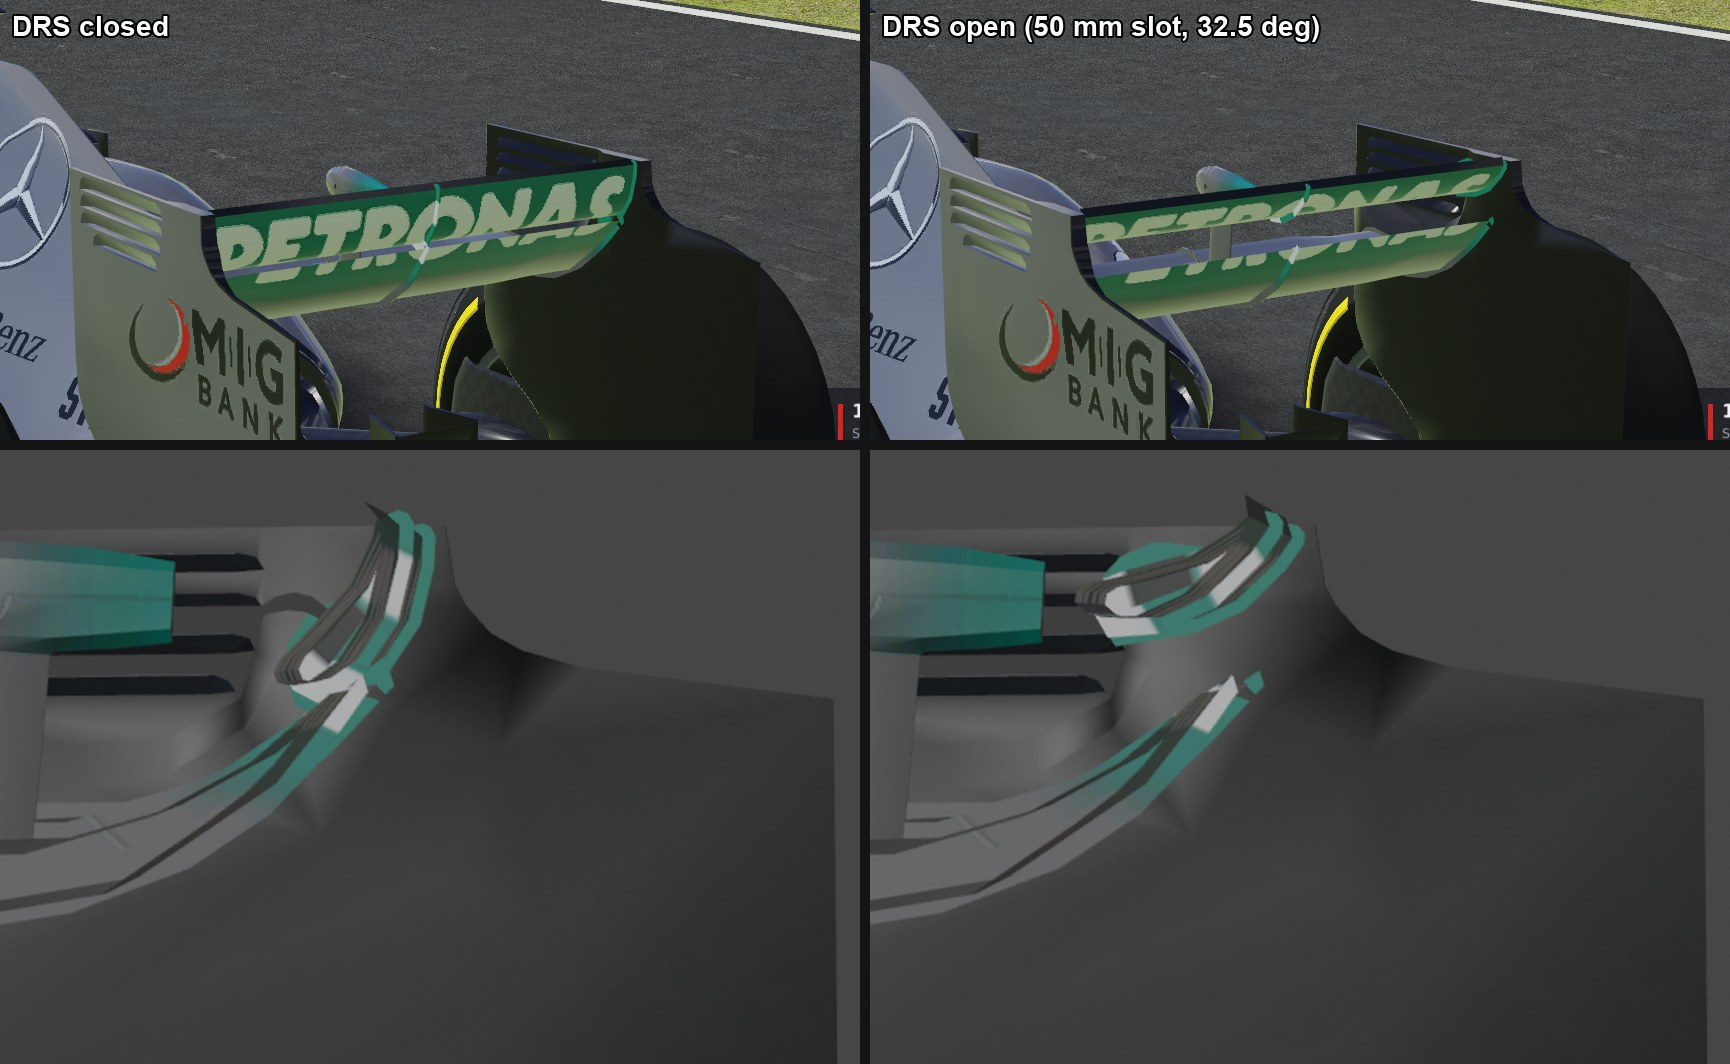
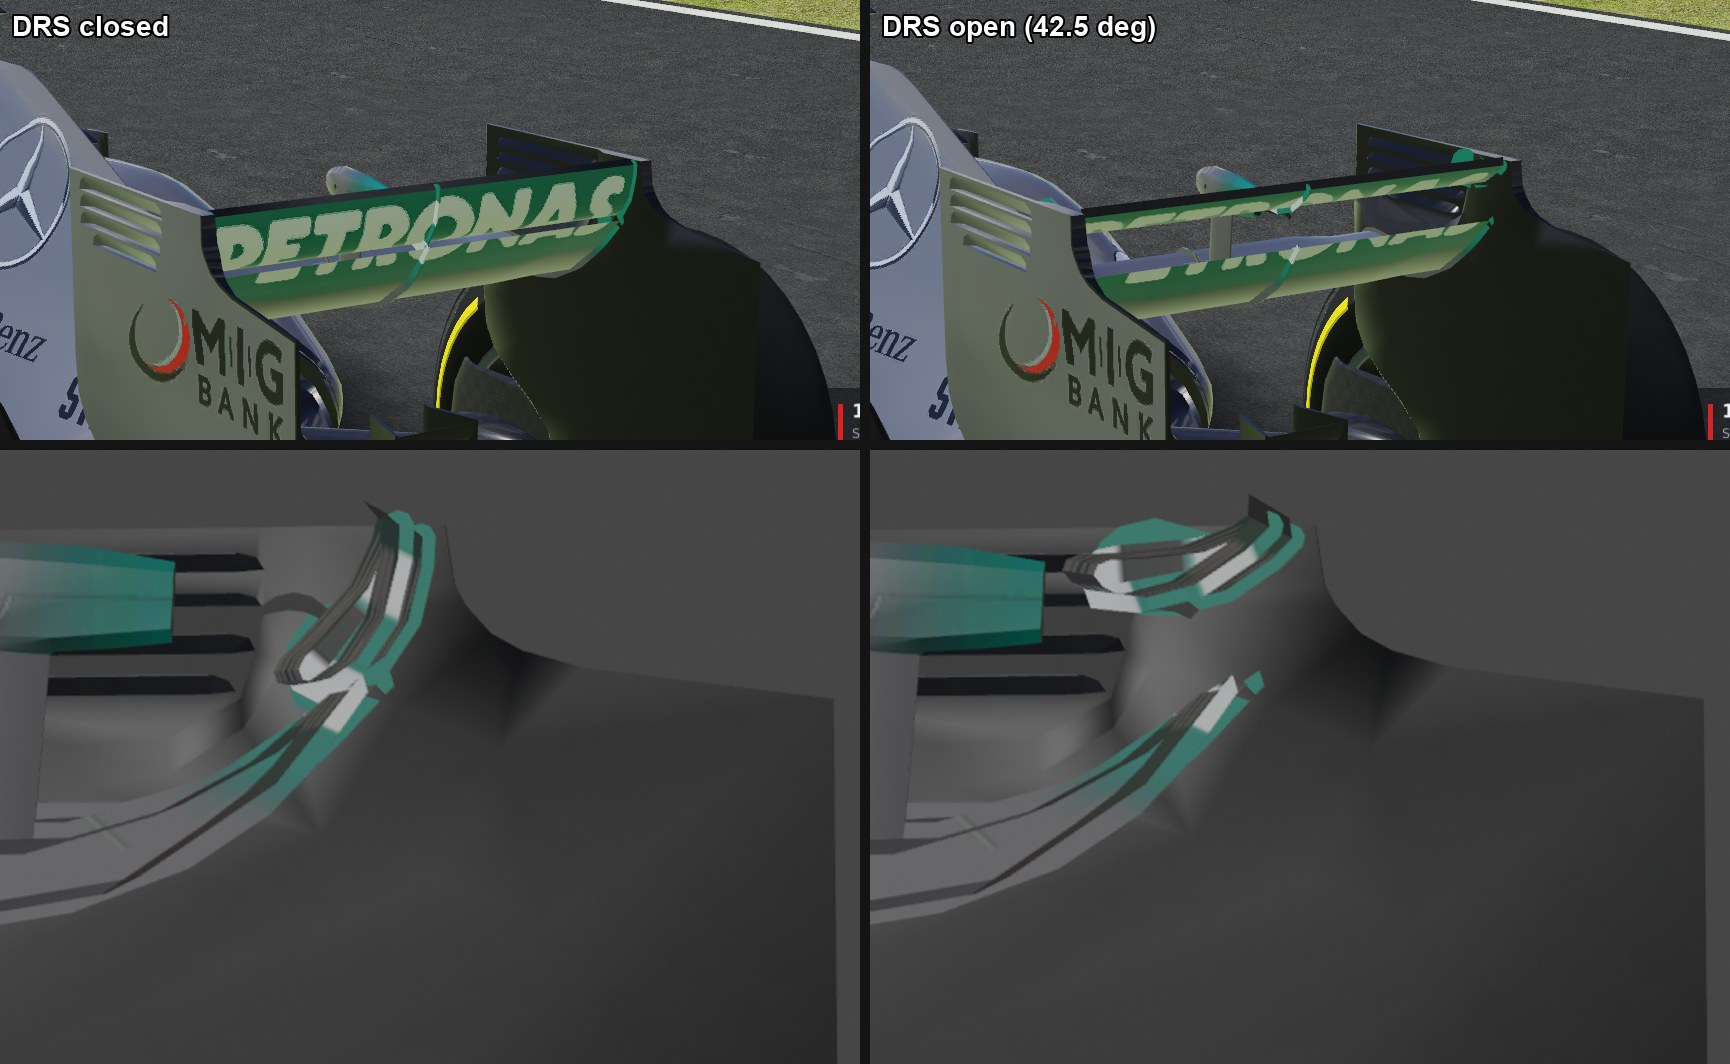
DRS flap opens 10 degrees further
The open flap now turns 10 degrees past the angle that gives the 2013 rules'
50 mm slot: 42.5 degrees on the Mercedes (59.6 mm slot), 36.8 to 49 across
the pack. car.json keeps the rule's angle as rule_angle_deg; the extra is
EXTRA_OPEN_DEG in tools/rig_drs.py.

Changed region(s): [[0.5931, 0.4652, 0.7491, 0.6203], [0.6243, 0.1241, 0.874, 0.2481], [0.5931, 0.0, 0.7803, 0.062]]

diff --git a/tools/rig_drs.py b/tools/rig_drs.py
@@ -7,7 +7,8 @@ For each car folder (assets/cars/<id> in the 2013 pack layout: body.glb, car.jso
   - writes it to drs_flap.glb as one node "drs_flap" whose origin is the hinge, so the flap
     opens by rotating the node about the hinge axis, and removes it from body.glb;
   - picks the opening angle that takes the slot gap (the narrowest distance between the main
-    plane and the flap, in side view) to 50 mm, the 2013 limit (Technical Regulations 3.18.3);
+    plane and the flap, in side view) to 50 mm, the 2013 limit (Technical Regulations 3.18.3),
+    then turns it EXTRA_OPEN_DEG further, which reads better on screen with this pack's short flaps;
   - adds a "drs" block to car.json: file, node, pivot, axis, max_angle_deg, gaps.
 
 drs_flap.glb also carries a glTF animation "drs_open" whose time is the open amount: t = 0 s
@@ -30,7 +31,8 @@ from scipy.sparse import coo_matrix
 from scipy.sparse.csgraph import connected_components
 from scipy.spatial import cKDTree
 
-GAP_OPEN = 0.050          # m: slot gap with the flap fully open
+GAP_OPEN = 0.050          # m: the 2013 limit on the slot gap with the flap open
+EXTRA_OPEN_DEG = 10.0     # degrees past that, by eye (2026-10-09)
 CAP_MARGIN = 0.035        # m: how far an end cap may stick out of the flap's side profile
 CT = {5120: np.int8, 5121: np.uint8, 5122: np.int16, 5123: np.uint16, 5125: np.uint32, 5126: np.float32}
 NC = {"SCALAR": 1, "VEC2": 2, "VEC3": 3, "VEC4": 4}
@@ -268,7 +270,8 @@ def rig(car_dir):
     for _ in range(40):
         mid = (lo + hi) / 2
         lo, hi = (mid, hi) if gap(mid) < GAP_OPEN else (lo, mid)
-    angle = (lo + hi) / 2
+    angle_rule = (lo + hi) / 2
+    angle = angle_rule + math.radians(EXTRA_OPEN_DEG)
 
     pivot = np.array([(fmn[0] + fmx[0]) / 2, pivot_yz[0], pivot_yz[1]])
     axis = [sign, 0.0, 0.0]
@@ -287,6 +290,7 @@ def rig(car_dir):
         "axis": axis,
         "max_angle_deg": round(math.degrees(angle), 2),
         "chord": round(chord, 4),
+        "rule_angle_deg": round(math.degrees(angle_rule), 2),
         "slot_gap_closed_mm": round(closed * 1000, 1),
         "slot_gap_open_mm": round(gap(angle) * 1000, 1),
         "materials": flap_mats,

diff --git a/assets/cars/f1_2013_02/README.md b/assets/cars/f1_2013_02/README.md
@@ -14,17 +14,19 @@ The rear wing's upper element is its own file, `drs_flap.glb`, cut out of `body.
 | `node` | `drs_flap` | the only node in `drs_flap.glb` |
 | `pivot` | (-0.0282, 1.0038, -2.100) | the hinge, at the flap's trailing edge (top rear), body frame |
 | `axis` | (-1, 0, 0) | right-handed: a positive turn lifts the leading edge |
-| `max_angle_deg` | 32.47 | fully open |
-| `slot_gap_closed_mm` / `_open_mm` | 11.4 / 50.0 | main plane to flap, in side view |
+| `max_angle_deg` | 42.47 | fully open |
+| `rule_angle_deg` | 32.47 | where the slot reaches 50 mm |
+| `slot_gap_closed_mm` / `_open_mm` | 11.4 / 59.6 | main plane to flap, in side view |
 
 The node's translation is the pivot, so the flap's vertices are relative to the hinge (raylib bakes
 the translation in, so `LoadModel` gives the flap closed, in the body frame). To open it by
 `open` in 0..1: turn about `axis` through `pivot` by `open * max_angle_deg`.
 `CarRender::setDrsOpen(open)` does this in viewer v2.
 
-The angle is set by the 2013 rule (Technical Regulations 3.18.3: a slot gap of 10 to 15 mm closed,
-no more than 50 mm open). This model's flap has a chord of only 100 mm, so a 50 mm slot takes
-about 32 degrees.
+The angle starts from the 2013 rule (Technical Regulations 3.18.3: a slot gap of 10 to 15 mm
+closed, no more than 50 mm open). This model's flap has a chord of only 100 mm, so a 50 mm slot
+takes about 32 degrees; the flap opens 10 degrees past that (`EXTRA_OPEN_DEG` in the tool),
+which looked right on screen.
 
 `drs_flap.glb` also has a glTF animation, `drs_open`, whose time is the open amount (0 s closed,
 1 s open), for tools that play glTF animations.
